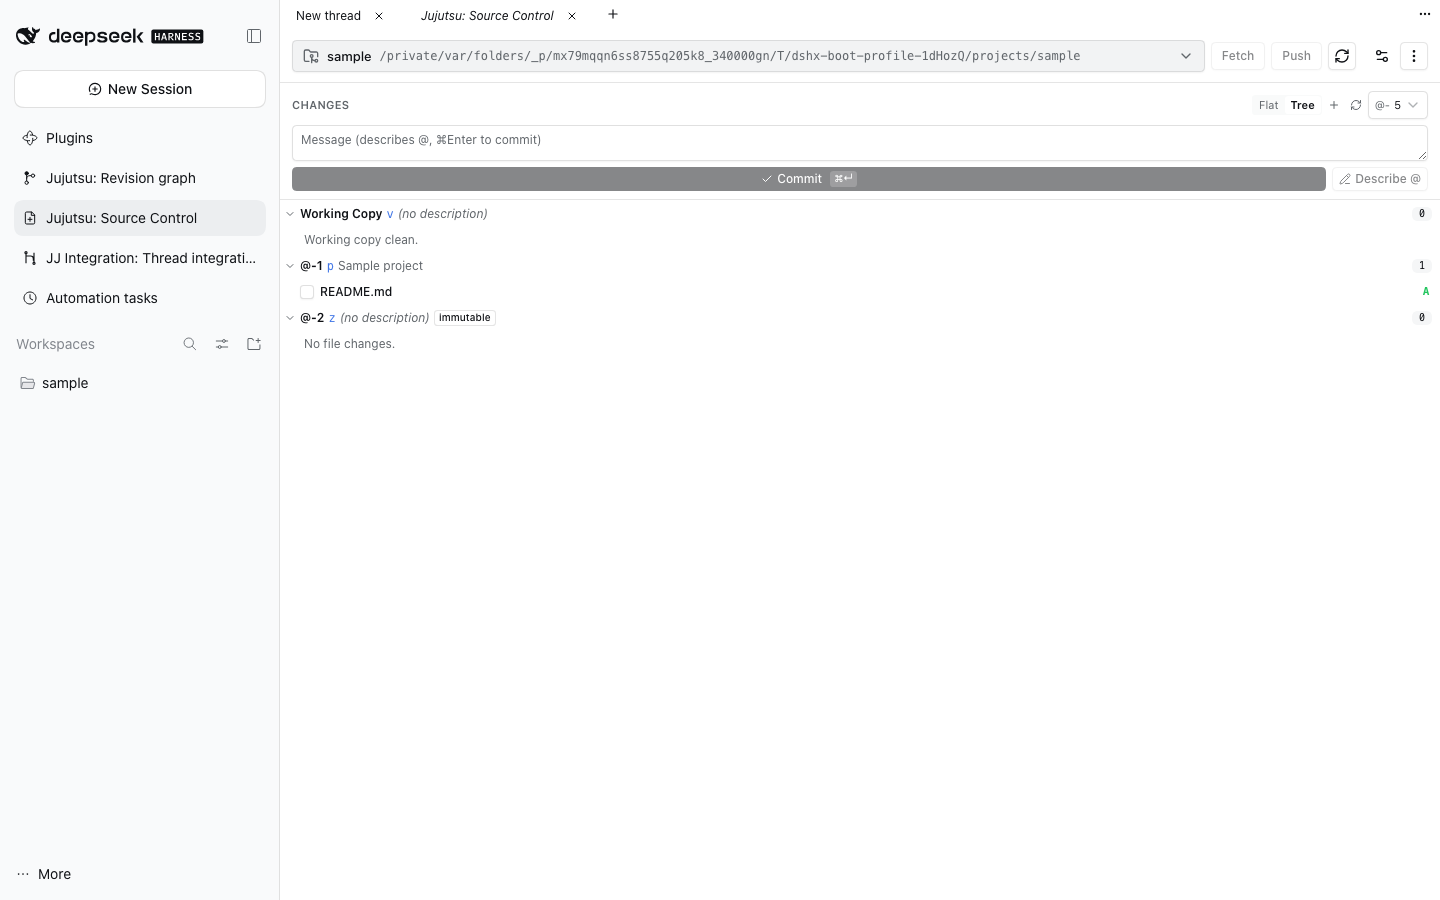
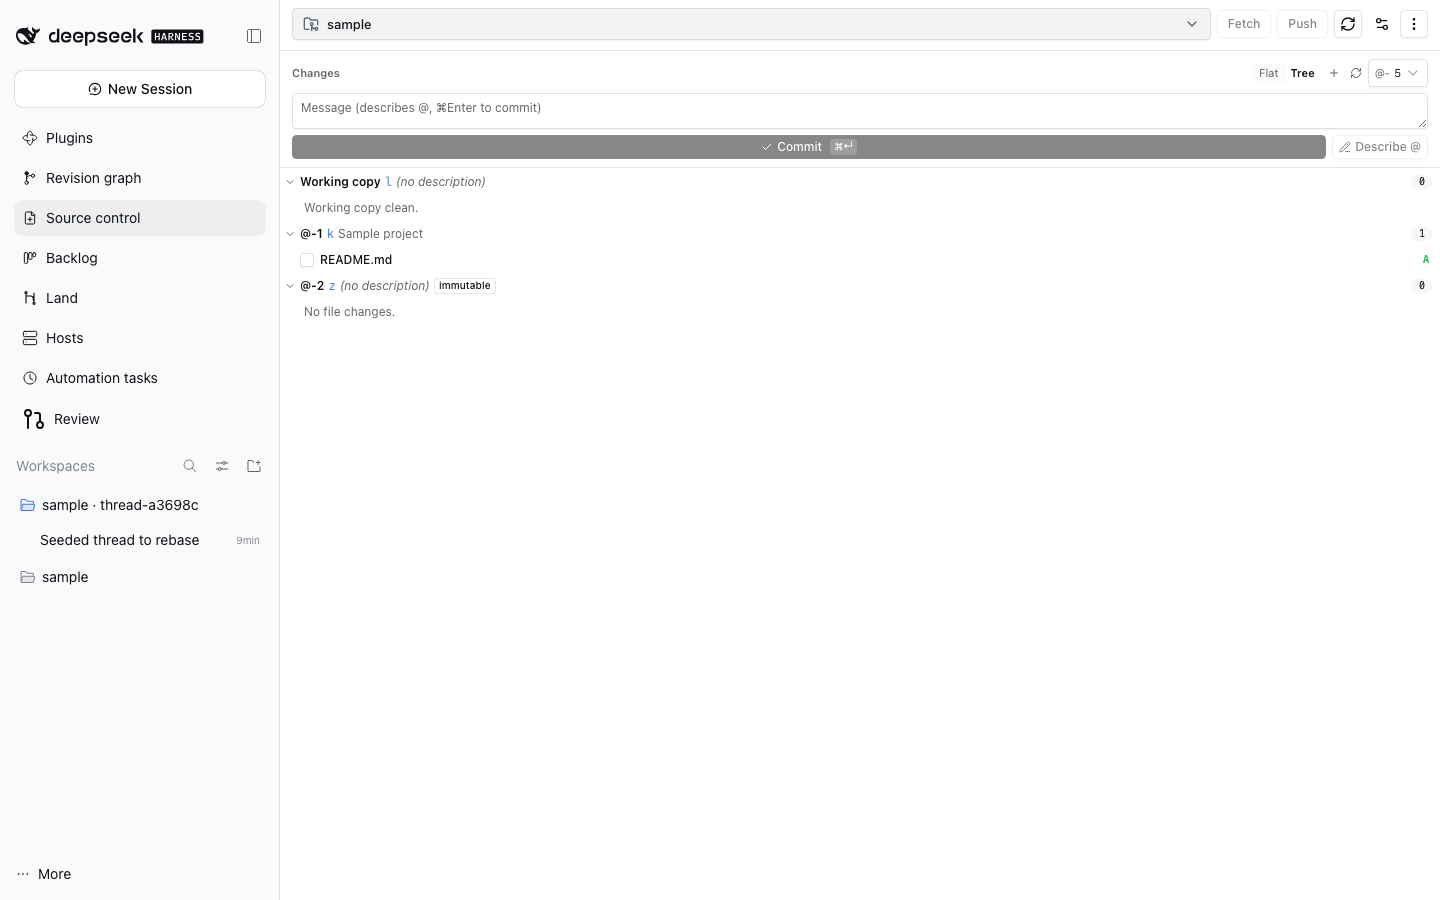
refactor(jujutsu): drop the plugin prefix and align graph views with the kit
Phase 1b of the ADE plan: navigation and Workbench titles become Revision
graph and Source control (no Jujutsu: prefix, sentence case). The view switch
uses the one segmented tab style instead of underline tabs, ALL-CAPS group and
file headers become sentence case, the empty prompts use the kit EmptyState,
and the repository picker shows the repository name while the absolute root
stays in its tooltip (it also truncates instead of running under Fetch/Push on
phones). Copy follows the glossary: threads not conversations or sessions,
Already landed, Open a thread here. Behaviour is unchanged; catalog reach
steps, README and the jujutsu journeys follow.

diff --git a/plugins/@dshfiles/jujutsu/src/client.tsx b/plugins/@dshfiles/jujutsu/src/client.tsx
@@ -33,6 +33,7 @@ import {
   DropdownMenuTrigger,
 } from '@dshfiles/plugin-ui/components/ui/dropdown-menu'
 import { Empty, EmptyHeader, EmptyTitle } from '@dshfiles/plugin-ui/components/ui/empty'
+import { EmptyState } from '@dshfiles/plugin-ui/components/page'
 import { Input } from '@dshfiles/plugin-ui/components/ui/input'
 import { InputGroup, InputGroupAddon, InputGroupInput } from '@dshfiles/plugin-ui/components/ui/input-group'
 import { Label } from '@dshfiles/plugin-ui/components/ui/label'
@@ -145,7 +146,7 @@ const REPO_HISTORY_LIMIT = 12
 const CODE_BLOCK =
   'dshx:max-h-80 dshx:overflow-auto dshx:rounded-md dshx:border dshx:bg-muted/40 dshx:p-2 dshx:font-mono dshx:text-[11px] dshx:leading-snug dshx:whitespace-pre'
 const DISCLOSURE_TRIGGER =
-  'dshx:group/disclosure dshx:flex dshx:items-center dshx:gap-1 dshx:py-1 dshx:text-[11px] dshx:font-semibold dshx:uppercase dshx:tracking-wide dshx:text-muted-foreground dshx:hover:text-foreground'
+  'dshx:group/disclosure dshx:flex dshx:items-center dshx:gap-1 dshx:py-1 dshx:text-[11px] dshx:font-semibold dshx:text-muted-foreground dshx:hover:text-foreground'
 
 const COMPACT_BADGE = 'dshx:h-4 dshx:max-w-40 dshx:rounded-sm dshx:px-1.5 dshx:py-0 dshx:font-mono dshx:text-[10px] dshx:leading-none'
 
@@ -940,7 +941,7 @@ export const JujutsuPanel = (props: JujutsuPanelProps): JSX.Element => {
     graphPageMutation.error && errorMessage(graphPageMutation.error, 'Could not load revision results.'),
     registerMutation.error && errorMessage(registerMutation.error, 'Could not register this repository.'),
     actionSnapshot.context.error,
-    launchMutation.error && errorMessage(launchMutation.error, 'Workspace Session could not be opened.'),
+    launchMutation.error && errorMessage(launchMutation.error, 'A thread could not be opened in this workspace. Try again.'),
   ].filter((message): message is string => Boolean(message))
 
   const askForConfirmation = (action: Mutation, presentation: DropPresentation | null = null): void => {
@@ -1433,7 +1434,7 @@ export const JujutsuPanel = (props: JujutsuPanelProps): JSX.Element => {
         ) : (
           <>
             <div className="dshx:flex dshx:flex-wrap dshx:items-center dshx:gap-x-2 dshx:gap-y-1 dshx:text-[11px] dshx:text-muted-foreground">
-              <span className="dshx:font-semibold dshx:uppercase dshx:tracking-wide">Changed files</span>
+              <span className="dshx:font-semibold">Changed files</span>
               <span className="dshx:font-mono">{details.files.length}</span>
               <FileViewToggle onChange={value => setPreference('fileView', value)} value={preferences.fileView} />
               <Tooltip>
@@ -1738,7 +1739,7 @@ export const JujutsuPanel = (props: JujutsuPanelProps): JSX.Element => {
                   {item.kind === 'day' ? (
                     <button
                       aria-expanded={!collapsedDays.has(item.day)}
-                      className="dshx:flex dshx:h-[18px] dshx:w-full dshx:items-center dshx:gap-1 dshx:border-b dshx:border-border/60 dshx:bg-background dshx:pr-3 dshx:text-left dshx:text-[10px] dshx:font-semibold dshx:uppercase dshx:tracking-wider dshx:text-muted-foreground dshx:outline-none dshx:hover:text-foreground dshx:focus-visible:ring-2 dshx:focus-visible:ring-ring/50"
+                      className="dshx:flex dshx:h-[18px] dshx:w-full dshx:items-center dshx:gap-1 dshx:border-b dshx:border-border/60 dshx:bg-background dshx:pr-3 dshx:text-left dshx:text-[11px] dshx:font-semibold dshx:text-muted-foreground dshx:outline-none dshx:hover:text-foreground dshx:focus-visible:ring-2 dshx:focus-visible:ring-ring/50"
                       data-row-focus=""
                       onClick={() =>
                         setCollapsedDays(current => {
@@ -1762,7 +1763,7 @@ export const JujutsuPanel = (props: JujutsuPanelProps): JSX.Element => {
                   ) : item.kind === 'push' ? (
                     <div
                       aria-label={`Last pushed revision: ${item.bookmark}@${item.remote}`}
-                      className="dshx:flex dshx:h-[18px] dshx:w-full dshx:items-center dshx:gap-1 dshx:border-b dshx:border-border/60 dshx:bg-background dshx:pr-3 dshx:text-[10px] dshx:font-semibold dshx:uppercase dshx:tracking-wider dshx:text-muted-foreground"
+                      className="dshx:flex dshx:h-[18px] dshx:w-full dshx:items-center dshx:gap-1 dshx:border-b dshx:border-border/60 dshx:bg-background dshx:pr-3 dshx:text-[11px] dshx:font-semibold dshx:text-muted-foreground"
                       data-push-boundary=""
                     >
                       <span className="dshx:relative dshx:h-full dshx:flex-none" style={{ width: graphWidth }}>
@@ -1835,11 +1836,7 @@ export const JujutsuPanel = (props: JujutsuPanelProps): JSX.Element => {
             </div>
           )}
           {visibleRevisions.length === 0 && !graphPagePending && (
-            <Empty className="dshx:gap-2 dshx:p-6 dshx:md:p-6">
-              <EmptyHeader>
-                <EmptyTitle className="dshx:text-sm">No revisions match these filters.</EmptyTitle>
-              </EmptyHeader>
-            </Empty>
+            <EmptyState className="dshx:py-6">No revisions match these filters. Change the search or the filters above to see more.</EmptyState>
           )}
         </div>
       </>
@@ -1859,15 +1856,9 @@ export const JujutsuPanel = (props: JujutsuPanelProps): JSX.Element => {
       </EmptyHeader>
     </Empty>
   ) : repositoryStatus.showEmptyPrompt ? (
-    <Empty className="dshx:gap-2 dshx:p-6 dshx:md:p-6">
-      <EmptyHeader>
-        <EmptyTitle className="dshx:text-sm dshx:font-normal dshx:text-muted-foreground">Choose a repository to open its revision graph.</EmptyTitle>
-        <Button className="dshx:mt-2" onClick={() => setPickerOpen(true)} size="sm" type="button" variant="outline">
-          <FolderGit2Icon />
-          Choose repository…
-        </Button>
-      </EmptyHeader>
-    </Empty>
+    <EmptyState action={{ label: 'Choose repository…', icon: <FolderGit2Icon />, onSelect: () => setPickerOpen(true) }}>
+      Choose a repository to open its revision graph.
+    </EmptyState>
   ) : null
 
   const tabsContent = (
@@ -1922,29 +1913,20 @@ export const JujutsuPanel = (props: JujutsuPanelProps): JSX.Element => {
         >
           <header className="dshx:flex dshx:flex-none dshx:flex-col dshx:gap-2 dshx:border-b dshx:px-3 dshx:pt-2 dshx:pb-2.5">
             {showViewTabs && (
-              <TabsList aria-label="Jujutsu views" className="dshx:h-9 dshx:gap-4 dshx:rounded-none dshx:border-b dshx:p-0" variant="line">
+              <TabsList aria-label="Repository views" className="dshx:self-start">
                 {props.view !== 'source' && (
-                  <TabsTrigger
-                    className="dshx:h-full dshx:flex-none dshx:rounded-none dshx:px-0.5 dshx:after:bottom-[-1px] dshx:after:bg-primary dshx:data-[state=active]:font-semibold"
-                    value="graph"
-                  >
+                  <TabsTrigger className="dshx:flex-none" value="graph">
                     Revision graph
                   </TabsTrigger>
                 )}
                 {fullDiff !== null && (
-                  <TabsTrigger
-                    className="dshx:h-full dshx:flex-none dshx:rounded-none dshx:px-0.5 dshx:after:bottom-[-1px] dshx:after:bg-primary dshx:data-[state=active]:font-semibold"
-                    value="diff"
-                  >
+                  <TabsTrigger className="dshx:flex-none" value="diff">
                     Diff
                   </TabsTrigger>
                 )}
                 {props.view !== 'graph' && (
-                  <TabsTrigger
-                    className="dshx:h-full dshx:flex-none dshx:rounded-none dshx:px-0.5 dshx:after:bottom-[-1px] dshx:after:bg-primary dshx:data-[state=active]:font-semibold"
-                    value="source"
-                  >
-                    Source Control
+                  <TabsTrigger className="dshx:flex-none" value="source">
+                    Source control
                   </TabsTrigger>
                 )}
               </TabsList>
@@ -1962,11 +1944,10 @@ export const JujutsuPanel = (props: JujutsuPanelProps): JSX.Element => {
                     <FolderGit2Icon className="dshx:text-muted-foreground" />
                     {state !== undefined || path.length > 0 ? (
                       <>
-                        <span className="dshx:flex-none dshx:font-medium">{repositoryName(state?.root ?? path)}</span>
-                        <span className="dshx:min-w-0 dshx:truncate dshx:font-mono dshx:text-xs dshx:text-muted-foreground">{state?.root ?? path}</span>
+                        <span className="dshx:min-w-0 dshx:truncate dshx:font-medium">{repositoryName(state?.root ?? path)}</span>
                       </>
                     ) : (
-                      <span className="dshx:text-muted-foreground">Choose repository…</span>
+                      <span className="dshx:min-w-0 dshx:truncate dshx:text-muted-foreground">Choose repository…</span>
                     )}
                     <ChevronDownIcon className="dshx:ml-auto dshx:text-muted-foreground" />
                   </Button>
@@ -2160,7 +2141,7 @@ export const JujutsuPanel = (props: JujutsuPanelProps): JSX.Element => {
                       type="button"
                       variant="outline"
                     >
-                      {launchMutation.isPending ? 'Opening…' : 'Open a DSH Session here'}
+                      {launchMutation.isPending ? 'Opening…' : 'Open a thread here'}
                     </Button>
                   </AlertDescription>
                 </Alert>
@@ -2266,7 +2247,7 @@ const PreferencesMenu = (): JSX.Element => {
                 Revision graph
               </DropdownMenuRadioItem>
               <DropdownMenuRadioItem className="dshx:text-xs" value="source">
-                Source Control
+                Source control
               </DropdownMenuRadioItem>
             </DropdownMenuRadioGroup>
           </DropdownMenuSubContent>

diff --git a/plugins/@dshfiles/thread-sidebar/src/destinations.ts b/plugins/@dshfiles/thread-sidebar/src/destinations.ts
@@ -68,8 +68,8 @@ export const KNOWN_SECTIONS: readonly DestinationSection[] = [
   { panelId: 'attention-inbox', destination: 'inbox', label: 'Needs you', description: 'Questions, approvals and failures waiting on you.', formerLabels: ['Inbox'] },
   { panelId: 'jj-integration', destination: 'land', label: 'Workspaces', description: 'Thread workspaces ready, blocked or behind.', order: 1, formerLabels: ['JJ Integration: Thread integration', 'Land'] },
   { panelId: 'pulls-review', destination: 'land', label: 'Review', description: 'Review a workspace before landing it.', order: 2, formerLabels: ['pulls.review: Reviews', 'Review'] },
-  { panelId: 'dshfiles-jujutsu', destination: 'land', label: 'History', description: 'The revision graph of a project.', order: 3, formerLabels: ['Jujutsu: Revision graph'] },
-  { panelId: 'dshfiles-jujutsu-source-control', destination: 'land', label: 'Source control', description: 'Working-copy changes and commits.', order: 4, formerLabels: ['Jujutsu: Source Control'] },
+  { panelId: 'dshfiles-jujutsu', destination: 'land', label: 'History', description: 'The revision graph of a project.', order: 3, formerLabels: ['Jujutsu: Revision graph', 'Revision graph'] },
+  { panelId: 'dshfiles-jujutsu-source-control', destination: 'land', label: 'Source control', description: 'Working-copy changes and commits.', order: 4, formerLabels: ['Jujutsu: Source Control', 'Source control'] },
   { panelId: 'dshfiles-backlog-panel', destination: 'work', label: 'Backlog', description: 'Tasks, bugs, ideas and notes.', order: 1, formerLabels: ['Backlog: Items', 'Backlog'] },
   { panelId: 'schedules', destination: 'work', label: 'Schedules', description: 'Reminders and recurring prompts.', order: 2, formerLabels: ['Schedules'] },
   { panelId: 'dshfiles-agents', destination: 'agents', label: 'Directory', description: 'Configured agents and their threads.', order: 1, formerLabels: ['Agents: Directory', 'Agents'] },

diff --git a/plugins/@dshfiles/jujutsu/src/client-entry.tsx b/plugins/@dshfiles/jujutsu/src/client-entry.tsx
@@ -128,11 +128,9 @@ export default defineClient({
       panel({ surface: 'main', scope: props.scope, visible: props.visible, view: 'graph' }),
     )
     ctx.effect(() => PanelScopes.listen(), 'dshfiles-jujutsu: the scope each main tab shows')
+    ctx.slots.inject('sidebar.panellist', () => ctx.slots.register({ name: 'sidebar.panellist', id: PANEL_ID, order: 2, label: 'Revision graph' }, PanelGlyph))
     ctx.slots.inject('sidebar.panellist', () =>
-      ctx.slots.register({ name: 'sidebar.panellist', id: PANEL_ID, order: 2, label: 'Jujutsu: Revision graph' }, PanelGlyph),
-    )
-    ctx.slots.inject('sidebar.panellist', () =>
-      ctx.slots.register({ name: 'sidebar.panellist', id: SOURCE_CONTROL_PANEL_ID, order: 3, label: 'Jujutsu: Source Control' }, SourceControlGlyph),
+      ctx.slots.register({ name: 'sidebar.panellist', id: SOURCE_CONTROL_PANEL_ID, order: 3, label: 'Source control' }, SourceControlGlyph),
     )
     ctx.effect(
       () =>
@@ -323,7 +321,7 @@ export default defineClient({
       () =>
         workbenchPanels().register({
           id: DOCK_PANEL_ID,
-          title: 'Jujutsu: Revision graph',
+          title: 'Revision graph',
           dockDefault: true,
           // The same feature's full main-view page, so the workbench offers "Move to main view" for the panel.
           mainPanelId: PANEL_ID,
@@ -336,7 +334,7 @@ export default defineClient({
       () =>
         workbenchPanels().register({
           id: SOURCE_CONTROL_DOCK_PANEL_ID,
-          title: 'Jujutsu: Source Control',
+          title: 'Source control',
           mainPanelId: SOURCE_CONTROL_PANEL_ID,
           component: DockSourceControlPanel,
         }),

diff --git a/plugins/@dshfiles/jujutsu/src/source-control-view.tsx b/plugins/@dshfiles/jujutsu/src/source-control-view.tsx
@@ -114,7 +114,7 @@ export const SourceControlView = (props: SourceControlViewProps): JSX.Element =>
     <div className="dshx:flex dshx:min-h-0 dshx:flex-1 dshx:flex-col">
       <div className="dshx:flex dshx:flex-none dshx:flex-col dshx:gap-1.5 dshx:border-b dshx:px-3 dshx:py-2">
         <div className="dshx:flex dshx:items-center dshx:gap-1">
-          <span className="dshx:text-[11px] dshx:font-semibold dshx:uppercase dshx:tracking-wide dshx:text-muted-foreground">Changes</span>
+          <span className="dshx:text-[11px] dshx:font-semibold dshx:text-muted-foreground">Changes</span>
           <div className="dshx:ml-auto dshx:flex dshx:items-center dshx:gap-0.5">
             <FileViewToggle onChange={props.onFileViewChange} value={props.fileView} />
             {workingCopy !== undefined && (
@@ -206,7 +206,7 @@ export const SourceControlView = (props: SourceControlViewProps): JSX.Element =>
           const editable = !revision.immutable
           const parent = group.parent
           const child = group.child
-          const label = group.depth === 0 ? 'Working Copy' : `@-${group.depth}`
+          const label = group.depth === 0 ? 'Working copy' : `@-${group.depth}`
           const describeText = describing?.commitId === revision.commitId ? describing.text : null
           const splitMessage = splitMessages[revision.commitId] ?? ''
           return (

diff --git a/tooling/dshx/e2e/support/plugin-journeys/jujutsu-repository.steps.ts b/tooling/dshx/e2e/support/plugin-journeys/jujutsu-repository.steps.ts
@@ -89,7 +89,7 @@ When('a disposable Jujutsu repository with two authors is opened in the Jujutsu 
   jj(repository, ['new'])
   await page.evaluate(path => localStorage.setItem('dshfiles.jujutsu.selected', JSON.stringify(path)), repository.path)
   await page.reload()
-  await openGlobalPanel(page, 'Jujutsu: Revision graph')
+  await openGlobalPanel(page, 'Revision graph')
   await expect(revisionRow(page, 'Feature work by Ada')).toBeVisible({ timeout: 30_000 })
 })
 
@@ -313,7 +313,7 @@ Then('the workspace {string} exists and a session opens in it only when asked', 
     expect(jj(repository, ['--ignore-working-copy', 'log', '--no-graph', '-r', `${name}@-`, '-T', 'description.first_line()'])).toBe('Feature work by Ada')
     await expect(page.getByRole('treeitem', { name, exact: true })).toHaveCount(0)
   })
-  await provision.getByRole('button', { name: 'Open a DSH Session here', exact: true }).click()
+  await provision.getByRole('button', { name: 'Open a thread here', exact: true }).click()
   await recordAssertion(page, 'jujutsu-session-opens-in-the-new-workspace', async () => {
     await expect(page.getByRole('treeitem', { name, exact: true })).toBeVisible()
     await expect(page.getByRole('button', { name: 'Choose workspace', exact: true })).toHaveText(name)

diff --git a/plugins/@dshfiles/jujutsu/src/workspace-cleanup-dialog.tsx b/plugins/@dshfiles/jujutsu/src/workspace-cleanup-dialog.tsx
@@ -22,7 +22,7 @@ const AGE_CHOICES = [
 
 const KIND_CHOICES: readonly { readonly kind: CleanupKindView; readonly label: string }[] = [
   { kind: 'empty', label: 'Empty' },
-  { kind: 'integrated', label: 'Already integrated' },
+  { kind: 'integrated', label: 'Already landed' },
   { kind: 'untracked', label: 'Untracked folders' },
   { kind: 'secondary', label: 'Other JJ workspaces' },
 ]
@@ -144,7 +144,7 @@ export const WorkspaceCleanupDialog = (props: {
         <DialogHeader className="dshx:px-5 dshx:pb-4 dshx:pt-5">
           <DialogTitle>Clean up workspaces</DialogTitle>
           <DialogDescription className="dshx:sr-only">
-            Select idle workspaces and untracked folders to remove. Unlanded work, uncommitted changes, and active sessions are always kept.
+            Select idle workspaces and untracked folders to remove. Unlanded work, uncommitted changes, and active threads are always kept.
           </DialogDescription>
         </DialogHeader>
         <div className="dshx:flex dshx:flex-wrap dshx:items-center dshx:gap-2 dshx:border-b dshx:border-border dshx:px-5 dshx:pb-4 dshx:text-xs">

diff --git a/plugins/@dshfiles/thread-sidebar/src/moved-to.generated.ts b/plugins/@dshfiles/thread-sidebar/src/moved-to.generated.ts
@@ -17,15 +17,15 @@ export const FORMER_NAVIGATION: readonly FormerNavigationEntry[] = [
   { entry: 'Backlog', destinations: ['inbox', 'work', 'settings'] },
   { entry: 'Hosts', destinations: ['observe'] },
   { entry: 'Inbox', destinations: ['inbox'] },
-  { entry: 'Jujutsu: Revision graph', destinations: ['land', 'none'] },
-  { entry: 'Jujutsu: Source Control', destinations: ['land'] },
   { entry: 'Land', destinations: ['land'] },
   { entry: 'MCP Servers: Servers', destinations: ['settings'] },
   { entry: 'Memory', destinations: ['knowledge'] },
   { entry: 'Messages', destinations: ['agents'] },
   { entry: 'Resource Packs: Resources', destinations: ['knowledge'] },
   { entry: 'Review', destinations: ['thread-panel'] },
+  { entry: 'Revision graph', destinations: ['land', 'none'] },
   { entry: 'Secrets', destinations: ['settings'] },
+  { entry: 'Source control', destinations: ['land'] },
   { entry: 'Thread Sidebar: Board', destinations: ['threads'] },
   { entry: 'Traces: Explorer', destinations: ['inbox', 'observe'] },
   { entry: 'Usage: Analytics', destinations: ['observe'] },

diff --git a/plugins/@dshfiles/jujutsu/src/inline-workspace-removal.tsx b/plugins/@dshfiles/jujutsu/src/inline-workspace-removal.tsx
@@ -24,8 +24,8 @@ const removalDescription = (thread: ThreadView | null): string =>
   thread === null
     ? 'Forgets the workspace registration in this repository. Its folder, its files and every commit stay on disk.'
     : thread.unlanded.length > 0
-      ? 'Forgets the jj workspace, removes any DSH project entry, deletes its folder and abandons the revisions listed below. Conversations remain in DSH and are not archived.'
-      : 'Forgets the jj workspace, removes any DSH project entry and deletes its folder. Conversations remain in DSH and are not archived.'
+      ? 'Forgets the jj workspace, removes any DSH project entry, deletes its folder and abandons the revisions listed below. Its threads stay in DSH and are not archived.'
+      : 'Forgets the jj workspace, removes any DSH project entry and deletes its folder. Its threads stay in DSH and are not archived.'
 
 const confirmLabel = (thread: ThreadView | null): string =>
   thread === null ? 'Remove workspace' : thread.unlanded.length > 0 ? 'Abandon work and remove workspace' : 'Remove workspace and folder'

diff --git a/tooling/dshx/e2e/support/plugin-journeys/jujutsu-git-auto-init.steps.ts b/tooling/dshx/e2e/support/plugin-journeys/jujutsu-git-auto-init.steps.ts
@@ -126,7 +126,7 @@ When('a disposable dirty Git-only checkout is opened through the Jujutsu reposit
     await rm(root, { recursive: true, force: true })
     throw error
   }
-  await openGlobalPanel(page, 'Jujutsu: Revision graph')
+  await openGlobalPanel(page, 'Revision graph')
   await chooseGitCheckout(page, fixtureFor(page))
 })
 
@@ -152,7 +152,7 @@ Then('reselecting and reopening the Git checkout does not initialize JJ again', 
     expect(await snapshotGit(fixture)).toEqual(fixture.before)
   })
   await reloadPastProviderSetup(page)
-  await openGlobalPanel(page, 'Jujutsu: Revision graph')
+  await openGlobalPanel(page, 'Revision graph')
   await expect(importedCommitRow(page)).toBeVisible({ timeout: 30_000 })
   await expect(page.getByRole('button', { name: 'Refresh', exact: true })).toBeEnabled()
   await recordAssertion(page, 'jujutsu-git-auto-init-reopen-is-idempotent', async () => {

diff --git a/plugins/@dshfiles/jujutsu/src/settings.ts b/plugins/@dshfiles/jujutsu/src/settings.ts
@@ -4,7 +4,7 @@ import { defineSettings } from '@dshfiles/dshx/settings'
 export const jujutsuSettings = defineSettings({
   namespace: 'dshfiles-jujutsu',
   schema: Schema.object({
-    defaultView: Schema.union([Schema.const('graph').description('Revision graph'), Schema.const('source').description('Source Control')])
+    defaultView: Schema.union([Schema.const('graph').description('Revision graph'), Schema.const('source').description('Source control')])
       .default('graph')
       .description('Tab shown when the Jujutsu panel opens.'),
     ancestorCount: Schema.natural().min(1).max(20).default(5).description('Ancestor groups (@-1 … @-N) shown in Source Control.'),

diff --git a/tooling/dshx/e2e/support/plugin-journeys/jujutsu.steps.ts b/tooling/dshx/e2e/support/plugin-journeys/jujutsu.steps.ts
@@ -239,7 +239,7 @@ const dispatchDrop = async (
 const selectRepository = async (page: Page, fixture: JujutsuFixture, waitForFixtureRows = true): Promise<void> => {
   await page.evaluate(({ key, path }) => localStorage.setItem(key, JSON.stringify(path)), { key: 'dshfiles.jujutsu.selected', path: fixture.repositoryPath })
   await page.reload()
-  await openGlobalPanel(page, 'Jujutsu: Revision graph')
+  await openGlobalPanel(page, 'Revision graph')
   if (!waitForFixtureRows) return
   await expect(revisionRow(page, fixture.sourceDescription)).toBeVisible({ timeout: 30_000 })
   await expect(revisionRow(page, fixture.targetDescription)).toBeVisible({ timeout: 30_000 })

diff --git a/tooling/dshx/e2e/support/plugin-view-names.ts b/tooling/dshx/e2e/support/plugin-view-names.ts
@@ -102,6 +102,8 @@ const railLocations = new Map<string, { readonly destination: string; readonly s
   ['Review', { destination: 'Land', section: 'Review' }],
   ['Backlog', { destination: 'Work', section: 'Backlog' }],
   ['Land', { destination: 'Land', section: 'Workspaces' }],
+  ['Revision graph', { destination: 'Land', section: 'History' }],
+  ['Source control', { destination: 'Land', section: 'Source control' }],
 ])
 
 const destinationTabs = (page: Page): Locator => page.getByRole('tablist', { name: 'Destinations', exact: true })
